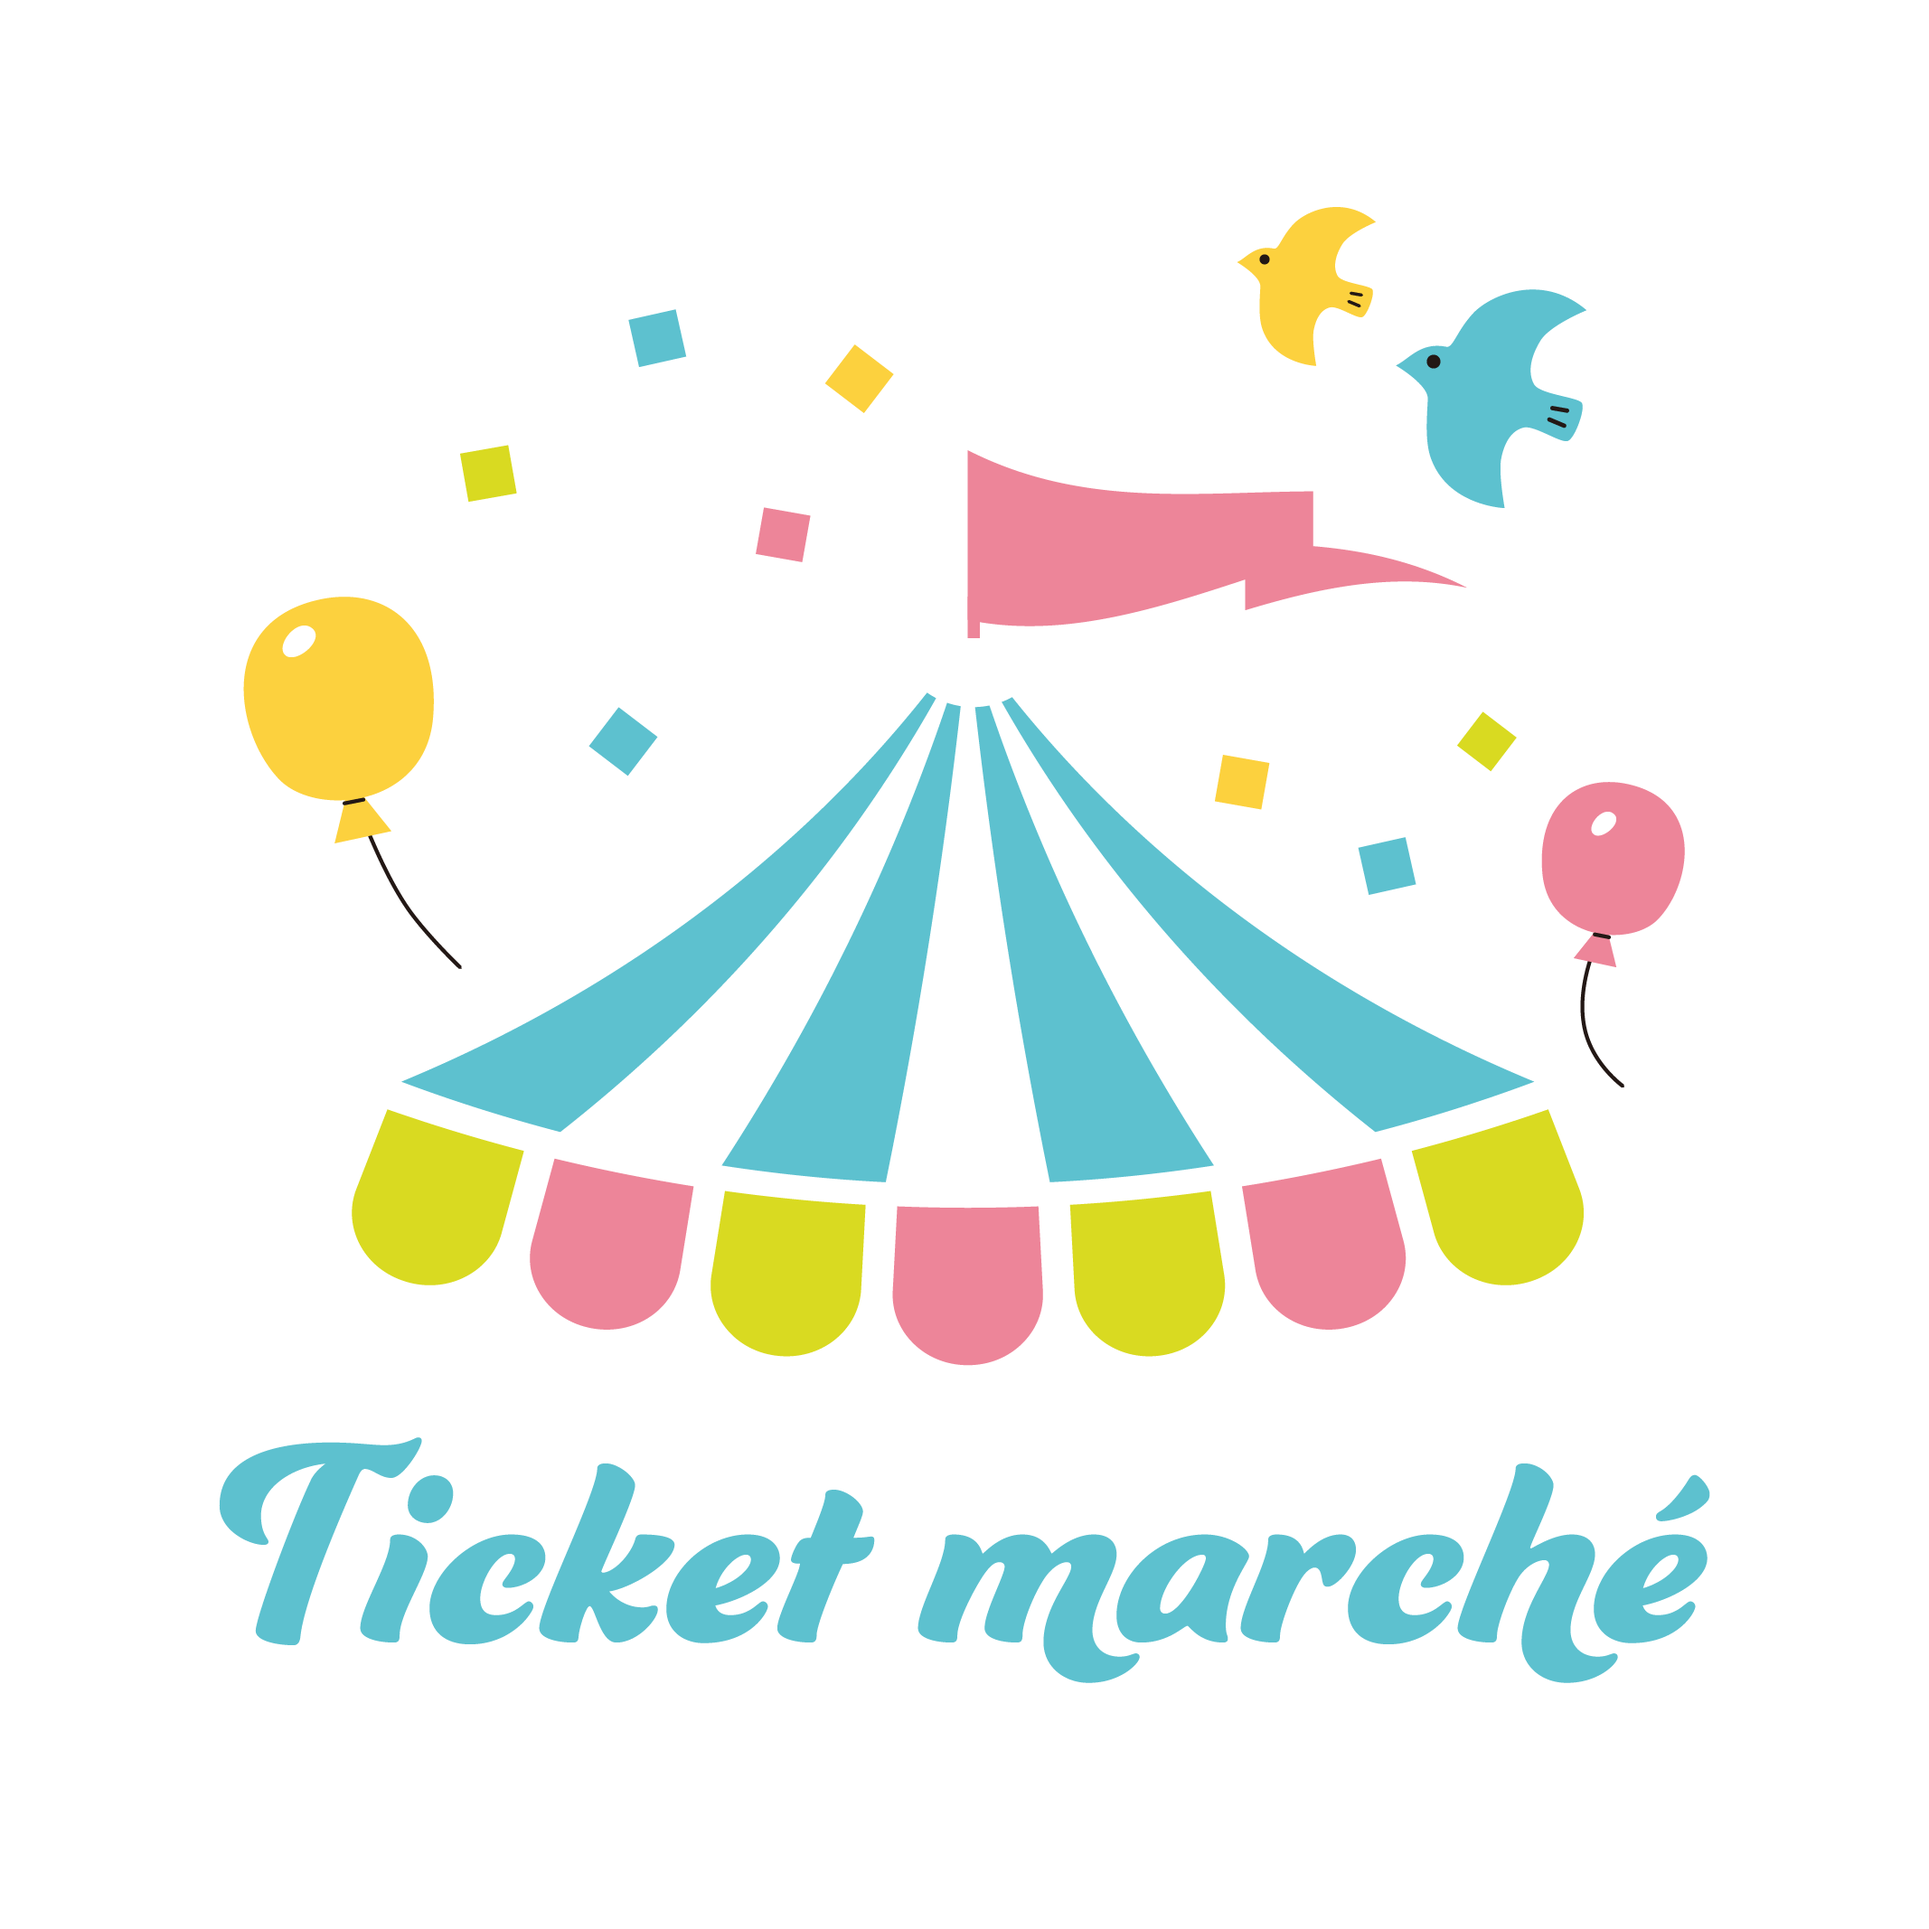
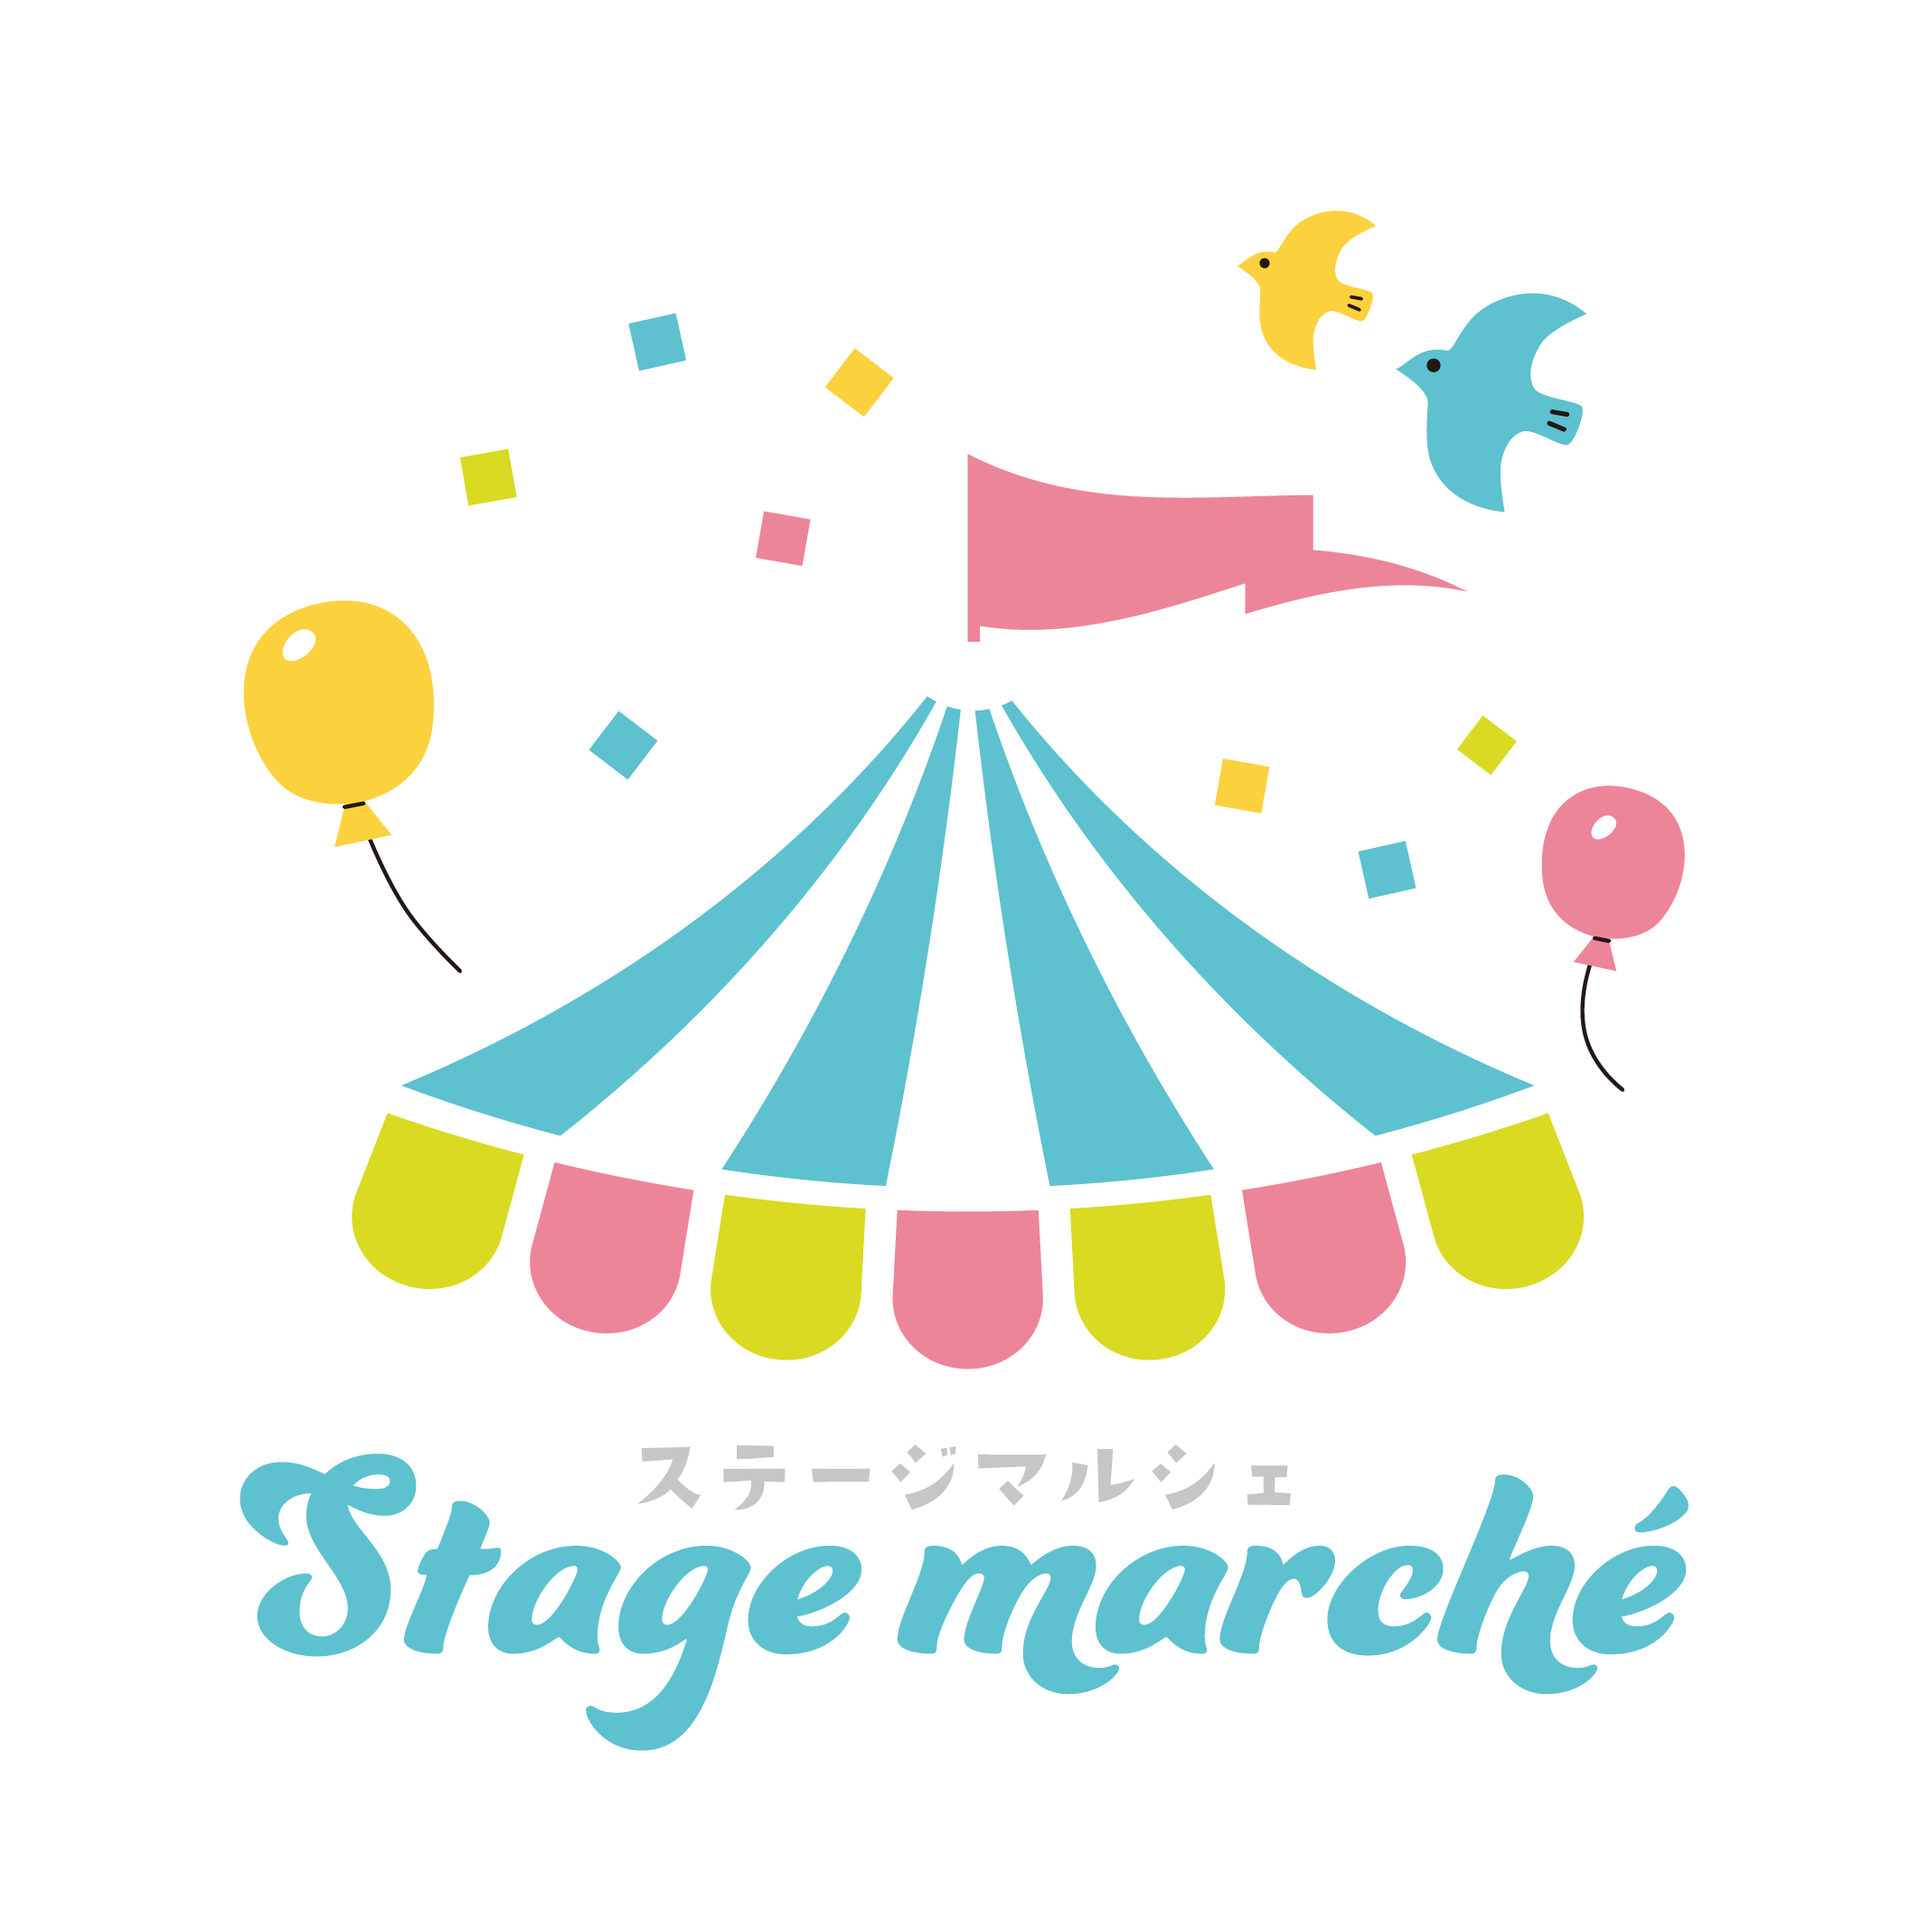
commit

diff --git a/src/components/Heading.tsx b/src/components/Heading.tsx
@@ -80,9 +80,15 @@ const Heading: FC<Props> = ({ path, back, search }) => {
   const HeadingText = () => (
     <>
       {nav && (
-        <Text as={'span'}>
-          {navIndex === 0 ? 'ステージマルシェ' : nav.name}
-        </Text>
+        <>
+          {navIndex === 0 ? (
+            <Box w={'160px'} mt={'10px'}>
+              <Box as={'img'} src={'./img/logo.svg'} />
+            </Box>
+          ) : (
+            <Text as={'span'}>{nav.name}</Text>
+          )}
+        </>
       )}
     </>
   );
@@ -94,6 +100,7 @@ const Heading: FC<Props> = ({ path, back, search }) => {
           h={'100%'}
           pos={'absolute'}
           inset={'auto 5vw auto auto'}
+          mt={'2px'}
           sx={{
             '&::before': {
               content: '""',

diff --git a/pages/_app.tsx b/pages/_app.tsx
@@ -21,14 +21,14 @@ function MyApp({ Component, pageProps }: AppProps) {
     }, LOGO_TIMER);
   };
 
-  // useEffect(() => {
-  //   startTimer();
-  //   logoTimer();
-  // }, []);
+  useEffect(() => {
+    startTimer();
+    logoTimer();
+  }, []);
 
   return (
     <ChakraProvider resetCSS theme={theme}>
-      {/* <Center
+      <Center
         w={'100vw'}
         h={'100vh'}
         bg={'skyblue'}
@@ -64,7 +64,7 @@ function MyApp({ Component, pageProps }: AppProps) {
         >
           <Box as={'img'} src={'/img/icon-white.svg'} w={'100%'} />
         </Box>
-      </Center> */}
+      </Center>
       <Component {...pageProps} />
     </ChakraProvider>
   );

diff --git a/pages/stage/[id].tsx b/pages/stage/[id].tsx
@@ -406,6 +406,7 @@ const StageId: NextPage<Props> = ({ id }) => {
           </Flex>
           {!isTicketElm && <OriginalSpacer size={'28px'} />}
           <Recommend />
+          <OriginalSpacer size={'56px'} />
         </>
       )}
     </>
